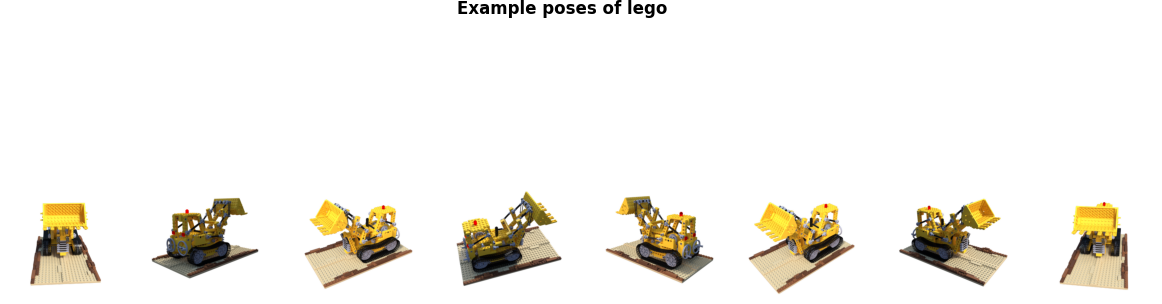
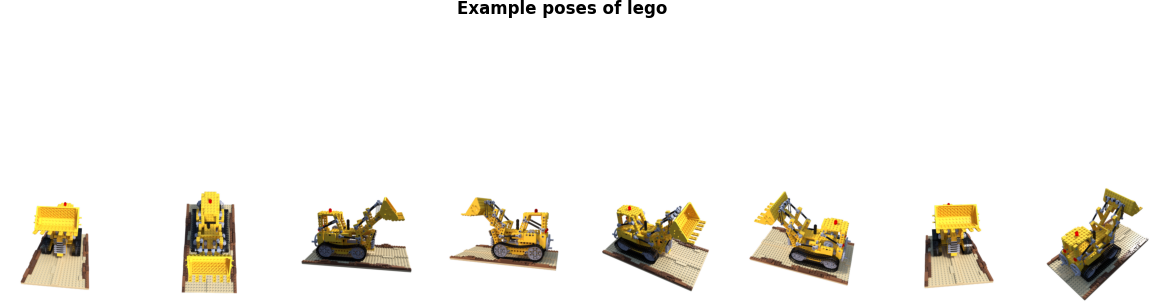
ex5-3

diff --git a/src/adlcv-ex-5/model.py b/src/adlcv-ex-5/model.py
@@ -15,6 +15,8 @@ class NeRF(nn.Module):
         self.d_input = d_input
         self.skips = skips
         self.d_viewdirs = d_viewdirs
+
+        self.relu = nn.ReLU()
         
         self.pts_linears = nn.ModuleList(
             [nn.Linear(d_input, hidden_dim)] + 
@@ -44,22 +46,32 @@ class NeRF(nn.Module):
         h = input_pts
         # for each layer with index i
         for i, l in enumerate(self.pts_linears):
-            h = ... # HINT: feed h to the layer i and rewrite to h
-            h = ... # HINT: use relu
+            # HINT: feed h to the layer i and rewrite to h
+            h = l(h)
+            # HINT: use relu
+            h = self.relu(h)
             if i in self.skips:
-                h = ... # implement skip with torch.cat
+                # implement skip with torch.cat - WHY
+                h = torch.cat([h, input_pts], -1)
 
         if self.d_viewdirs is not None:
-            alpha = ... # HINT: feed h to alpha linear
-            feature = ... # HINT: feed h to feature linear
-            h = ... # HINT: concat feature and input_views to create the input for the views_linreas
+            # HINT: feed h to alpha linear
+            alpha = self.alpha_linear(h)
+            # HINT: feed h to feature linear
+            feature = self.feature_linear(h)
+            # HINT: concat feature and input_views to create the input for the views_linreas
+            h = torch.cat([feature, input_views], -1) 
         
             for i, l in enumerate(self.views_linears):
-                h = ... # HINT: forward for views_linears of i
-                h = ... # HINT: Use relu
+                # HINT: forward for views_linears of i
+                h = l(h)
+                # HINT: Use relu
+                h = self.relu(h)
 
-            rgb = ... # HINT: calculate rgb values with rgb_layer
-            outputs = ... # HINT: concat rgb and alpha
+            # HINT: calculate rgb values with rgb_layer
+            rgb = self.rgb_linear(h)
+            # HINT: concat rgb and alpha
+            outputs = torch.cat([rgb, alpha], -1) 
         else:
             outputs = self.output_linear(h)
 
@@ -87,8 +99,8 @@ class Embedder(nn.Module):
 
         # TASK 2: Complete the implementation of the Embedder
         for freq in freq_bands:
-            self.embed_fns.append(lambda x, freq=freq: torch.sin(pow(2,freq) * x)) # HINT: use torch.sin
-            self.embed_fns.append(lambda x, freq=freq: torch.cos(pow(2,freq) * x)) # HINT: use torch.cos
+            self.embed_fns.append(lambda x, freq=freq: torch.sin(freq * x)) # HINT: use torch.sin
+            self.embed_fns.append(lambda x, freq=freq: torch.cos(freq * x)) # HINT: use torch.cos
 
     def forward(self, x):
         """

diff --git a/src/adlcv-ex-5/playground.py b/src/adlcv-ex-5/playground.py
@@ -62,6 +62,7 @@ def make_video(images, title='Sparse poses', save_path=None):
 
 
 device = torch.device('cuda' if torch.cuda.is_available() else 'cpu')
+device = 'cpu'
 print(f'The code will run on {device}')
 
 scene_name = 'lego' # IMPORTANT: dont change the scene name! You can change it in the training script.
@@ -172,7 +173,7 @@ log_space = True
 embedder = Embedder(d_input, n_freqs, log_space)
 
 points = pts.reshape((-1, 3))
-idxs =  torch.linspace(0, pts.shape[0], steps=8, dtype=torch.int)
+idxs =  torch.linspace(0, pts.shape[0], steps=20, dtype=torch.int64)
 points = points[idxs]
 embeddings = embedder(points).cpu().detach().numpy()
 
